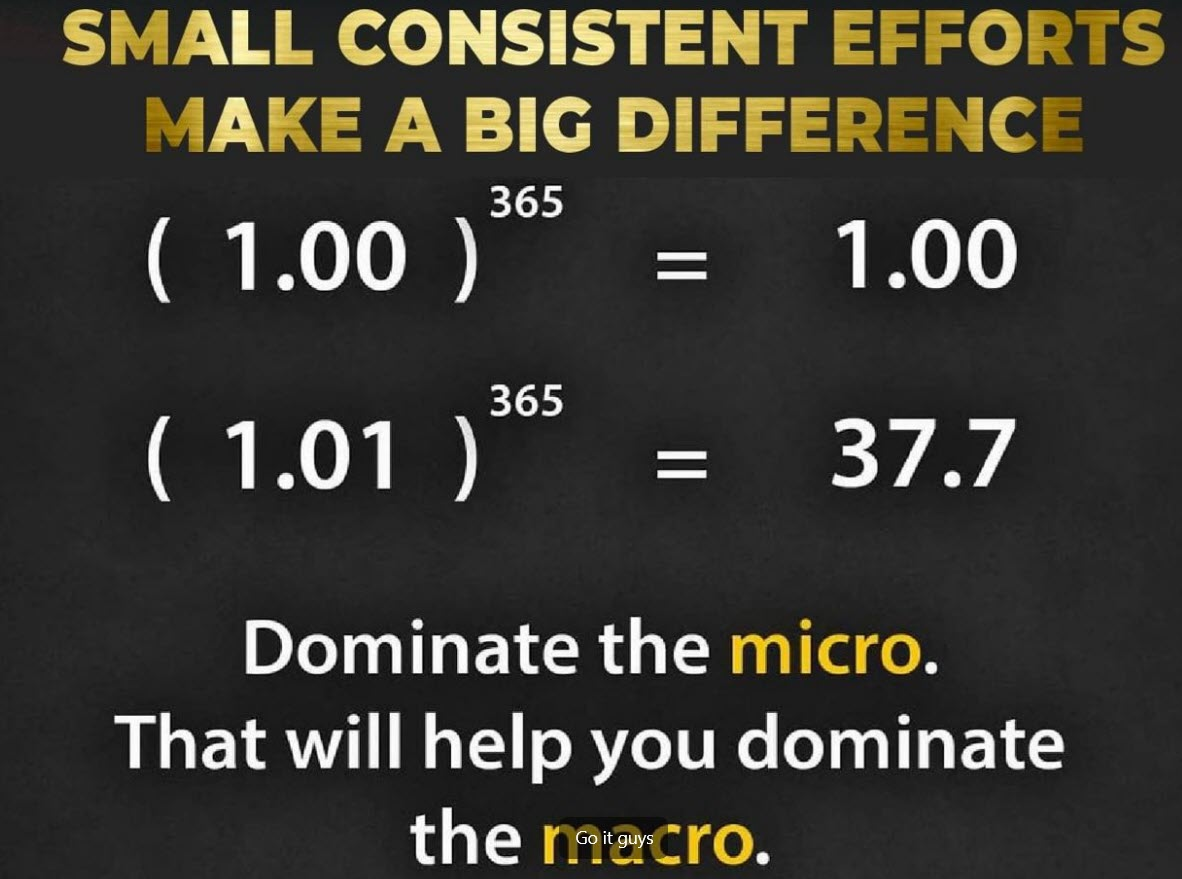
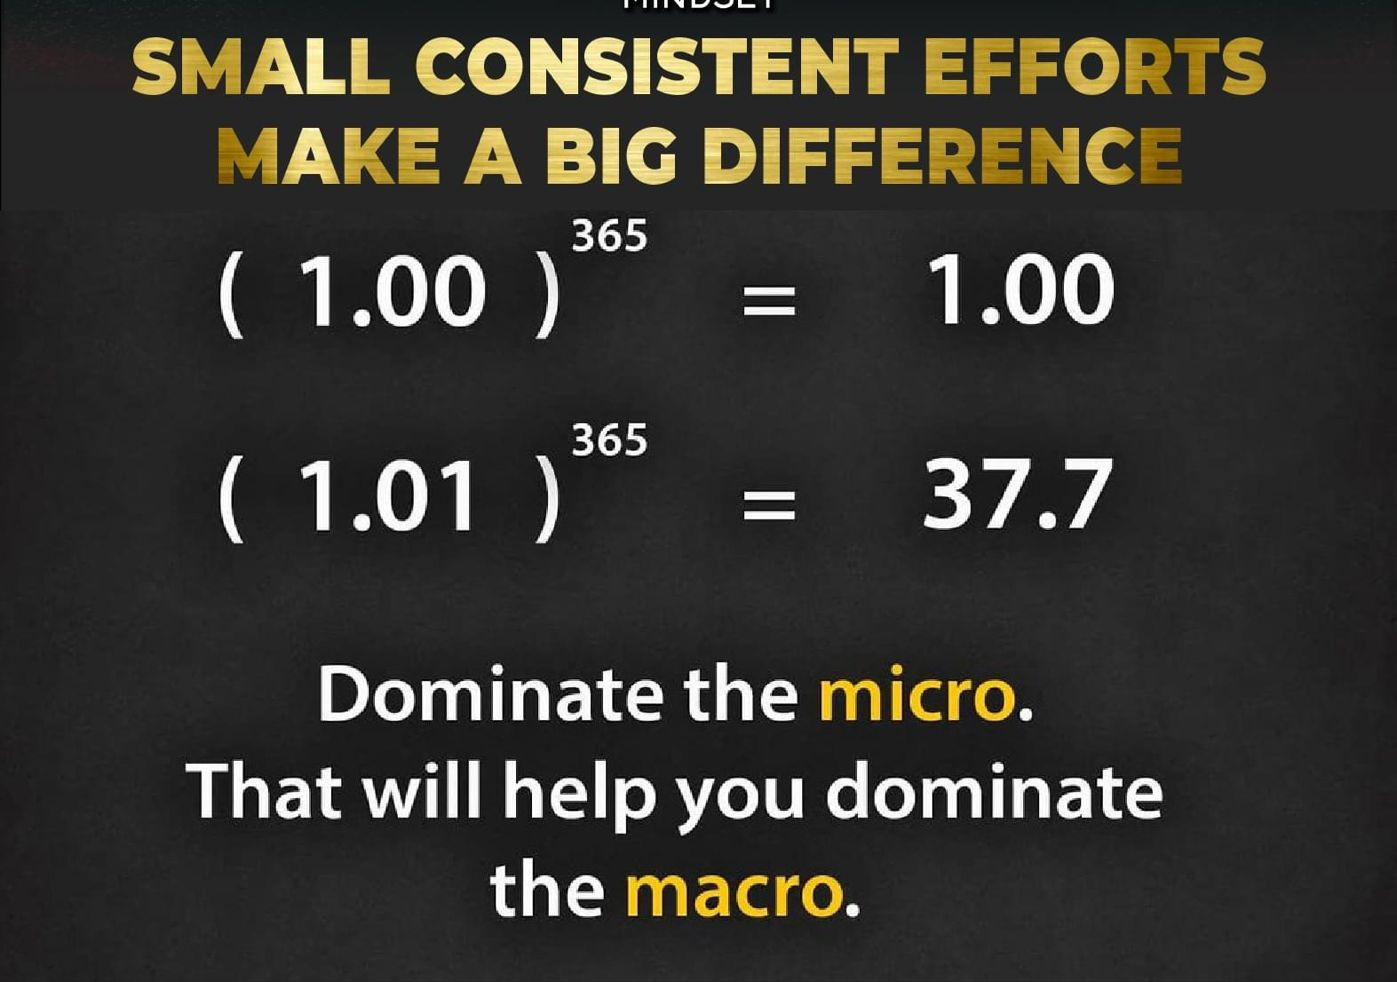
update new clean image

diff --git a/README.md b/README.md
@@ -1,3 +1,4 @@
+<<<<<<< Updated upstream
 
 <div> <img src="https://github.com/jagsanand76/jagsanand76/assets/32331987/93c2bb46-d175-4d3d-a84b-a64b57616f04" alt="My motto" width="400" height="300"> </div>
 </div>
@@ -7,6 +8,29 @@
 ## AboutMe
   <i> Driving innovation, delivering complex intiatives, and leading high-performing teams. Adept at translating strategic vision into actionable plans, optimizing processes, and fostering a culture of continuous improvement at micro level to build the value driven outcomes at macro level. </i> 
 
+=======
+<<<<<<< HEAD
+<img src="./MyMotto.png" alt="my Motto">
+
+
+##About Me
+
+<i> Driving innovation, delivering complex intiatives, and leading high-performing teams. Adept at translating strategic vision into actionable plans, optimizing processes, and fostering a culture of continuous improvement at micro level to build the value driven outcomes at macro level. </i> 
+
+
+
+=======
+>>>>>>> fe79edd15ed8c11a92119bedcc02acc88f8defd8
+
+<div> <img src="https://github.com/jagsanand76/jagsanand76/assets/32331987/93c2bb46-d175-4d3d-a84b-a64b57616f04" alt="My motto" width="400" height="300"> </div>
+</div>
+
+<div>
+  
+## AboutMe
+  <i> Driving innovation, delivering complex intiatives, and leading high-performing teams. Adept at translating strategic vision into actionable plans, optimizing processes, and fostering a culture of continuous improvement at micro level to build the value driven outcomes at macro level. </i> 
+
+>>>>>>> Stashed changes
 ## what I'am Currently working on
   <ul>
     <li> Design and Developing cost effective products solution in Heath care Solution and Medical Devices</li>
